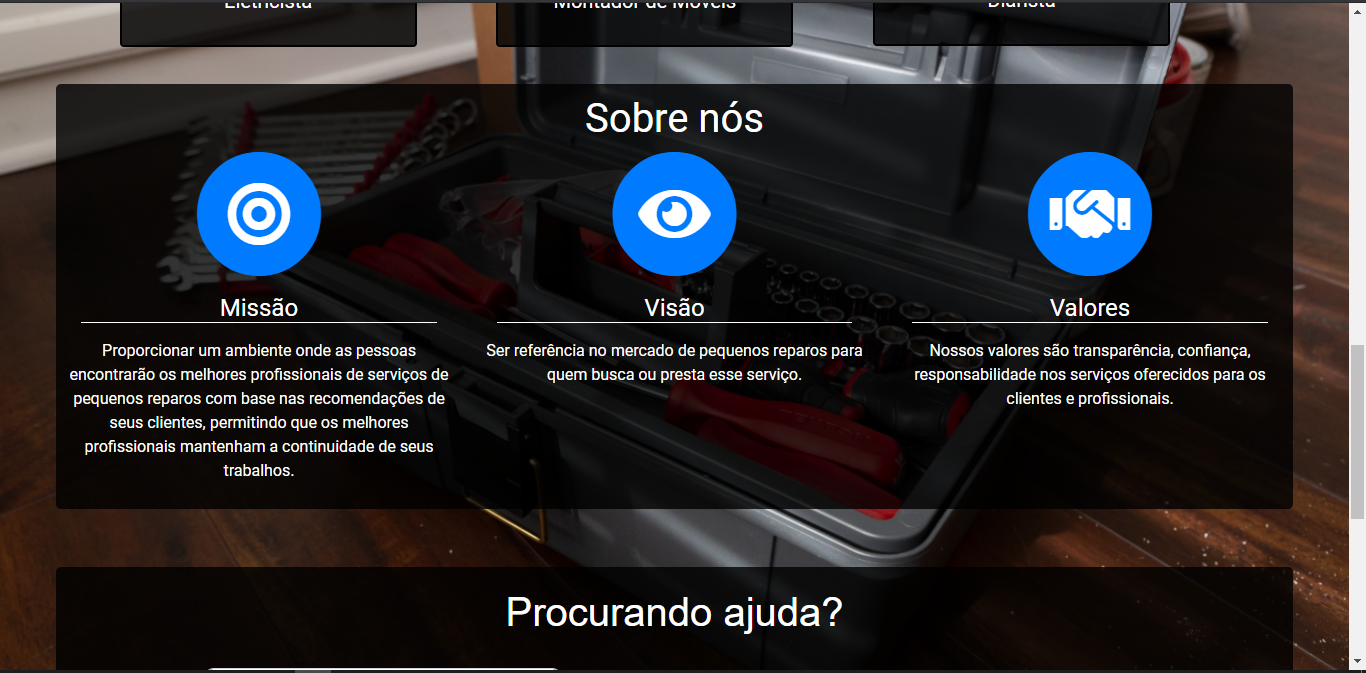
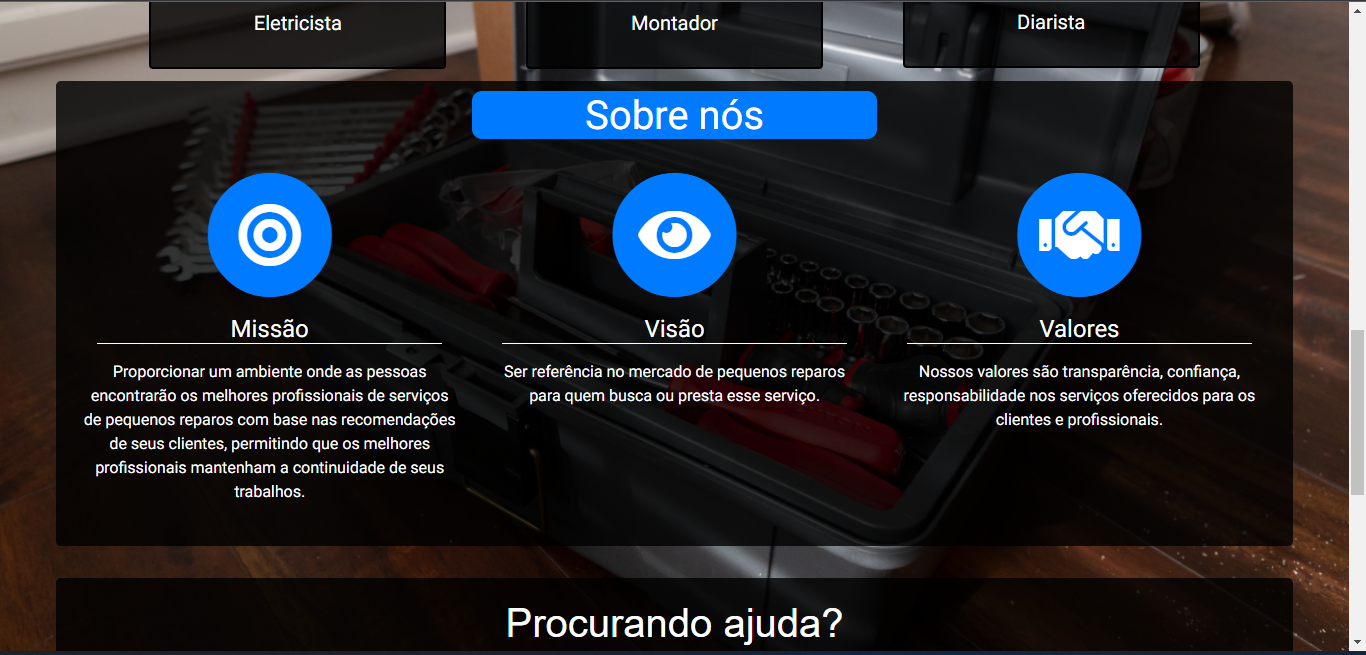
ajuste sobre front-end

diff --git a/src/View/Sobre.php b/src/View/Sobre.php
@@ -1,8 +1,8 @@
 <div class="container sobreNos  col-11">
-    <div class="text-center">
+    <div class="text-center col-md-4  offset-md-4 mb-3" style="background:#007bff; border-radius: 10px">
         <h1 class="text-center"> Sobre nós</h1>
     </div>
-    <div class="row text-center">
+    <div class="row text-center p-3">
         <div class="col-md-4">
             <div class="container">
                 <span class="fa-stack fa-4x">
